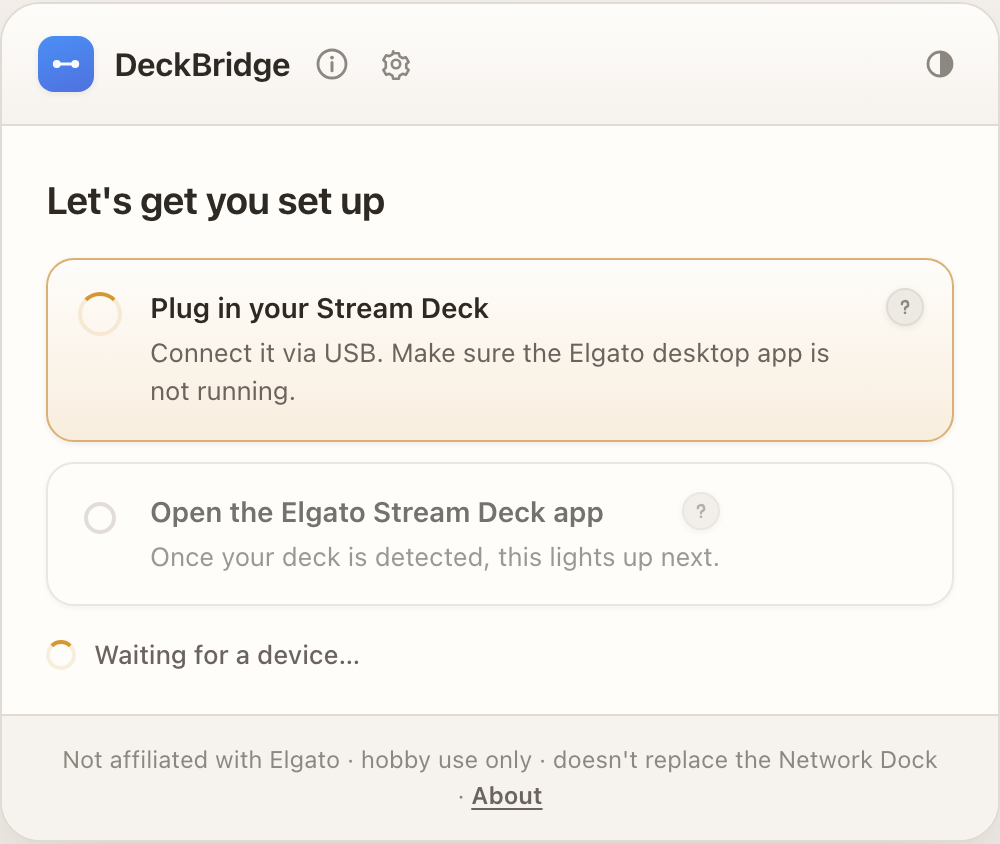
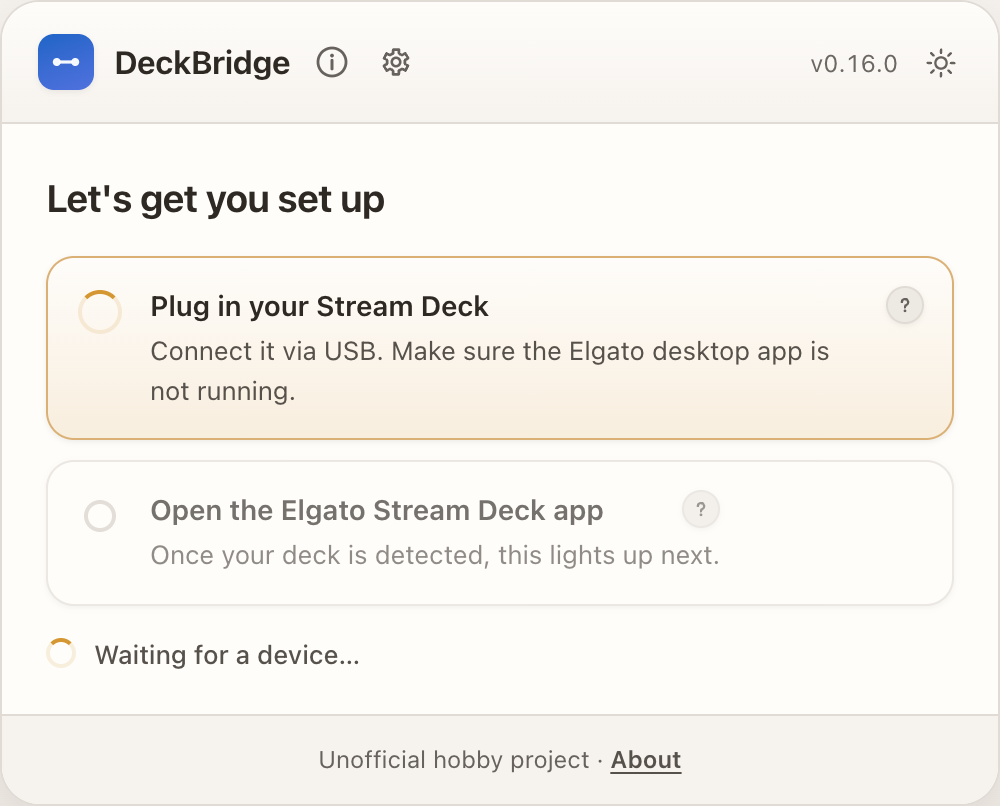
feat(devices): native Stream Deck+ emulation for AKP05 (#143)
* feat(devices): native Stream Deck+ emulation for AKP05, add mock-akp05 task

Retail AKP05 now advertises as stream-deck-plus by default (image/keyMap/cora
from AKP05E). Adds mise mock-akp05 task + script, regen device docs/images.

* style(web-client): custom dropdown arrow for select.input

* style: oxfmt

---------

diff --git a/ts/src/web/client/ui-simple.css b/ts/src/web/client/ui-simple.css
@@ -25,7 +25,7 @@
   gap: 10px;
 }
 .app-version {
-  opacity: 0.5;
+  opacity: 0.7;
   font-size: 12px;
   font-variant-numeric: tabular-nums;
   white-space: nowrap;
@@ -96,7 +96,7 @@
 .xkey-config-btn {
   color: var(--fg-muted);
   background: var(--surface);
-  border: 1px solid var(--border);
+  border: 1px solid var(--control-border);
 }
 .ghostbtn {
   font-family: var(--font);
@@ -110,7 +110,7 @@
 }
 .ghostbtn:hover {
   color: var(--fg);
-  border-color: var(--border-strong);
+  border-color: var(--accent);
 }
 .ghostbtn:active,
 .ctabtn:active,
@@ -359,9 +359,11 @@
     width: 280px;
   }
   &.dimmed {
+    width: 60%;
+  }
+  &.dimmed :is(.key-grid, .touch-strip-preview) {
     filter: saturate(0.4) brightness(0.92);
     opacity: 0.55;
-    width: 60%;
   }
   &.dimmed .live-dot {
     color: var(--fg-dim);
@@ -523,7 +525,7 @@ input[type='range'].range {
     linear-gradient(var(--accent), var(--accent)) 0 / var(--fill, 80%) 100% no-repeat,
     var(--inset);
   box-shadow: var(--inset-shadow);
-  border: 1px solid var(--border);
+  border: 1px solid var(--control-border);
 
   /* NB: keep -webkit-/-moz- thumb rules separate — a shared selector list
      is dropped whole by the engine that doesn't know the other's pseudo */
@@ -534,7 +536,7 @@ input[type='range'].range {
     height: 20px;
     border-radius: 50%;
     background: var(--surface);
-    border: 1px solid var(--border-strong);
+    border: 1px solid var(--control-border);
     box-shadow: var(--shadow-2);
     transition: transform 0.08s;
   }
@@ -546,7 +548,7 @@ input[type='range'].range {
     height: 20px;
     border-radius: 50%;
     background: var(--surface);
-    border: 1px solid var(--border-strong);
+    border: 1px solid var(--control-border);
     box-shadow: var(--shadow-2);
   }
 }
@@ -593,7 +595,7 @@ input[type='range'].range:disabled {
   margin-top: 0;
 }
 .xkeys-compact .input.xkey-select {
-  padding: 3px 7px;
+  padding: 3px 30px 3px 7px;
   min-height: 26px;
   font-size: 12px;
 }
@@ -1346,7 +1348,7 @@ input[type='range'].range:disabled {
   padding: 9px 11px;
   border-radius: 8px;
   background: var(--surface);
-  border: 1px solid var(--border-strong);
+  border: 1px solid var(--control-border);
   box-shadow: var(--shadow-1);
   color: var(--fg);
   font-size: 13px;
@@ -1389,7 +1391,7 @@ input[type='range'].range:disabled {
   padding: 4px 9px;
   border-radius: 6px;
   background: transparent;
-  border: 1px solid var(--border);
+  border: 1px solid var(--control-border);
   color: var(--fg-dim);
   font-size: 12px;
 }
@@ -1974,7 +1976,7 @@ input[type='range'].range:disabled {
   font-size: 12px;
   color: var(--fg);
   background: var(--bg);
-  border: 1px solid var(--border);
+  border: 1px solid var(--control-border);
   border-radius: var(--r-sm);
   padding: 4px 8px;
 }
@@ -1984,6 +1986,20 @@ input[type='range'].range:disabled {
 }
 select.input {
   cursor: pointer;
+}
+.b-mode-select,
+select.input,
+select.input.xkey-select {
+  appearance: none;
+  padding-right: 30px;
+  background-image:
+    linear-gradient(45deg, transparent 43%, currentColor 43% 57%, transparent 57%),
+    linear-gradient(135deg, transparent 43%, currentColor 43% 57%, transparent 57%);
+  background-size: 7px 7px;
+  background-position:
+    calc(100% - 21px) center,
+    calc(100% - 14px) center;
+  background-repeat: no-repeat;
 }
 
 /* collapsible sections (Collapsible component) */

diff --git a/ts/test/device-models.test.ts b/ts/test/device-models.test.ts
@@ -17,7 +17,7 @@ import {
   AJAZZ_AKP153E_REV2_MODEL,
   AJAZZ_AKP153R_REV2_MODEL,
 } from '../src/devices/ajazz/akp153-rev2.js';
-import { AJAZZ_AKP05E_MODEL } from '../src/devices/ajazz/akp05e.js';
+import { AJAZZ_AKP05E_MODEL, STREAM_DECK_PLUS_EMULATION } from '../src/devices/ajazz/akp05e.js';
 import { AJAZZ_AKP05_MODEL } from '../src/devices/ajazz/akp05.js';
 import { FIFINE_D6_MODEL, FIFINE_D6_REV2_MODEL } from '../src/devices/fifine/fifine-d6.js';
 import { AKP153_V1_CLONE_MODELS } from '../src/devices/rebadge/akp153-v1-clones.js';
@@ -132,9 +132,19 @@ test('AKP05E has its proven 2x5 output mapping', () => {
 
 test('AKP05 inherits AKP05E output protocol', () => {
   assert.equal(AJAZZ_AKP05_MODEL.protocol, AJAZZ_AKP05E_MODEL.protocol);
-  assert.equal(AJAZZ_AKP05_MODEL.protocol, AJAZZ_AKP05E_MODEL.protocol);
-  assert.deepEqual(AJAZZ_AKP05_MODEL.image, AJAZZ_AKP05E_MODEL.image);
-  assert.deepEqual(AJAZZ_AKP05_MODEL.keyMap, AJAZZ_AKP05E_MODEL.keyMap);
+  assert.equal(AJAZZ_AKP05_MODEL.wire, AJAZZ_AKP05E_MODEL.wire);
+});
+
+test('AKP05 pairs as Stream Deck + by default', () => {
+  assert.equal(AJAZZ_AKP05_MODEL.cora.advertiseAs, 'stream-deck-plus');
+  assert.equal(AJAZZ_AKP05_MODEL.cora.productId, ELGATO_PLUS_PID);
+  assert.deepEqual(
+    advertisedGeometry(AJAZZ_AKP05_MODEL),
+    modelToChildGeometry(STREAM_DECK_PLUS_MODEL),
+  );
+  assert.deepEqual(AJAZZ_AKP05_MODEL.image, STREAM_DECK_PLUS_EMULATION.image);
+  assert.deepEqual(AJAZZ_AKP05_MODEL.keyMap, STREAM_DECK_PLUS_EMULATION.keyMap);
+  assert.equal(AJAZZ_AKP05E_MODEL.cora.advertiseAs, undefined);
 });
 
 // Stream Deck + emulation profile

diff --git a/ts/src/web/client/ui-base.css b/ts/src/web/client/ui-base.css
@@ -12,14 +12,15 @@
   --inset: light-dark(oklch(0.935 0.009 72), oklch(0.175 0.008 64));
   --border: light-dark(oklch(0.895 0.01 72), oklch(0.33 0.01 64));
   --border-strong: light-dark(oklch(0.855 0.012 70), oklch(0.4 0.012 64));
+  --control-border: light-dark(oklch(0.6 0.01 72), oklch(0.58 0.01 64));
   --fg: light-dark(oklch(0.285 0.012 62), oklch(0.935 0.006 78));
-  --fg-muted: light-dark(oklch(0.505 0.012 64), oklch(0.73 0.01 72));
-  --fg-dim: light-dark(oklch(0.625 0.01 66), oklch(0.595 0.01 70));
-  --accent: light-dark(oklch(0.655 0.168 258), oklch(0.715 0.15 256));
+  --fg-muted: light-dark(oklch(0.44 0.012 64), oklch(0.73 0.01 72));
+  --fg-dim: light-dark(oklch(0.5 0.01 66), oklch(0.66 0.01 70));
+  --accent: light-dark(oklch(0.52 0.168 258), oklch(0.715 0.15 256));
   --accent-ink: light-dark(oklch(0.99 0.01 258), oklch(0.16 0.02 258));
-  --ok: light-dark(oklch(0.66 0.142 152), oklch(0.74 0.145 153));
+  --ok: light-dark(oklch(0.48 0.142 152), oklch(0.74 0.145 153));
   --wait: light-dark(oklch(0.72 0.135 75), oklch(0.78 0.13 78));
-  --warn: light-dark(oklch(0.6 0.18 32), oklch(0.7 0.165 35));
+  --warn: light-dark(oklch(0.52 0.18 32), oklch(0.7 0.165 35));
   --accent-soft: color-mix(in oklab, var(--accent), transparent 85%);
   --ok-soft: color-mix(in oklab, var(--ok), transparent 85%);
   --wait-soft: color-mix(in oklab, var(--wait), transparent 85%);

diff --git a/ts/src/devices/ajazz/akp05e.ts b/ts/src/devices/ajazz/akp05e.ts
@@ -40,7 +40,7 @@ const TOUCH_STRIP_IMAGE: DeviceImageSpec = { ...TOUCH_SLOT_IMAGE, width: 800 };
 // 5/10) becomes DeckBridge-owned extra keys (widget + press command, extra-keys.ts).
 // usePhysicalIdentity stays false — the AKP05E's own firmware (V3.AKP05E.02.007)
 // must not reach the desktop.
-const STREAM_DECK_PLUS_EMULATION: DeviceEmulation = {
+export const STREAM_DECK_PLUS_EMULATION = {
   image: { ...KEY_IMAGE, rotate: 180 },
   keyMap: {
     coraToWireImage: [11, 12, 13, 14, 6, 7, 8, 9],
@@ -48,7 +48,7 @@ const STREAM_DECK_PLUS_EMULATION: DeviceEmulation = {
     extraKeys: [15, 10],
     extraKeyInputs: [5, 10],
   },
-};
+} satisfies DeviceEmulation;
 
 /** AJAZZ AKP05E. Only PID 0x3004 has output-protocol evidence. */
 export const AJAZZ_AKP05E_MODEL: DeviceModel = {

diff --git a/ts/src/devices/ajazz/akp05.ts b/ts/src/devices/ajazz/akp05.ts
@@ -1,4 +1,5 @@
-import { AJAZZ_AKP05E_MODEL } from './akp05e.js';
+import { ELGATO_PLUS_PID } from '../../shared/types.js';
+import { AJAZZ_AKP05E_MODEL, STREAM_DECK_PLUS_EMULATION } from './akp05e.js';
 import type { DeviceModel } from '../driver.js';
 
 /** Retail AJAZZ AKP05. VID/PID and protocol-3 image format come from opendeck-akp05. */
@@ -7,4 +8,11 @@ export const AJAZZ_AKP05_MODEL: DeviceModel = {
   id: 'ajazz-akp05',
   name: 'AJAZZ AKP05',
   usbProductIds: [0x3006],
+  image: STREAM_DECK_PLUS_EMULATION.image,
+  keyMap: STREAM_DECK_PLUS_EMULATION.keyMap,
+  cora: {
+    ...AJAZZ_AKP05E_MODEL.cora,
+    productId: ELGATO_PLUS_PID,
+    advertiseAs: 'stream-deck-plus',
+  },
 };

diff --git a/docs-site/src/css/custom.css b/docs-site/src/css/custom.css
@@ -326,6 +326,22 @@ html[data-theme='dark'] img[alt$='light theme'] {
   display: none;
 }
 
+.db-dock-compare {
+  margin: 0.25rem 0 0.75rem;
+  padding: 0;
+  border: 0;
+  background: transparent;
+  box-shadow: none;
+}
+
+.db-dock-compare > summary {
+  width: fit-content;
+  color: var(--ifm-link-color);
+  cursor: pointer;
+  font-size: 0.875rem;
+  text-decoration: underline;
+}
+
 /* ---- Interactive pairing stepper (docs/features.md) ----
    Pure-CSS, no JS: 4 hidden radios drive the SVG layers + controls through
    `#db-sN:checked ~` sibling selectors. Prev/Next are <label>s pointing at the

diff --git a/ts/src/web/client/simple/device-tuning.tsx b/ts/src/web/client/simple/device-tuning.tsx
@@ -393,7 +393,11 @@ export function DeviceTuningPanel(): preact.JSX.Element {
             value={coraProfile}
             onChange={(e) => setCoraProfile((e.target as HTMLSelectElement).value)}
           >
-            <option value="">Native (default)</option>
+            <option value="">
+              {activeView.defaults.cora?.advertiseAs
+                ? 'Default (Stream Deck +)'
+                : 'Native (default)'}
+            </option>
             {activeView.profiles.map((p) => (
               <option key={p.id} value={p.id}>
                 {p.name}

diff --git a/docs/features.md b/docs/features.md
@@ -121,6 +121,13 @@ Web UI always shows current setup state. No guessing required.
 | **Ready to pair** | **Connected and working** |
 | ![DeckBridge showing the address needed to pair a connected Stream Deck, light theme](./img/webui-state-pairing.png) ![DeckBridge showing the address needed to pair a connected Stream Deck, dark theme](./img/webui-state-pairing-dark.png) | ![DeckBridge showing a connected and working Stream Deck with its live preview, light theme](./img/webui-state-ready.png) ![DeckBridge showing a connected and working Stream Deck with its live preview, dark theme](./img/webui-state-ready-dark.png) |
 
+### AKP05 as Elgato Stream Deck +
+
+This mock pairing shows the AKP05's eight app keys, touch strip, side keys, and knob
+controls with **Stream Deck +** emulation.
+
+![Paired AJAZZ AKP05 in Stream Deck Plus emulation showing touch strip and knobs, light theme](./img/webui-akp05-plus.png) ![Paired AJAZZ AKP05 in Stream Deck Plus emulation showing touch strip and knobs, dark theme](./img/webui-akp05-plus-dark.png)
+
 ## Use cases
 
 ```mermaid
@@ -136,8 +143,21 @@ flowchart LR
 
 - **Put the deck on another computer** — plug the deck into a laptop or mini-PC, run
   DeckBridge there, and control the Elgato app on your streaming PC across the LAN.
-- **Skip the Network Dock** — network-dock behaviour for hobby setups without buying
-  the hardware.
+- **Skip the Network Dock** — use a computer you already own and avoid buying the
+  [Elgato Network Dock](https://www.elgato.com/us/en/p/network-dock-stream-deck), listed at
+  **$79.99 USD** in September 2026.
+
+  <details class="db-dock-compare">
+  <summary>Compare DeckBridge with Network Dock</summary>
+
+  | | DeckBridge | Elgato Network Dock |
+  |---|---|---|
+  | **Cost** | Free software; needs a running computer. | $79.99 USD hardware (September 2026). |
+  | **Connection** | USB deck plugged into that computer; the computer can use WiFi or wired LAN. | [Ethernet and PoE](https://www.elgato.com/us/en/p/network-dock-stream-deck), or Ethernet with separate USB-C power. No computer needed beside the deck. |
+  | **Decks** | [Supported Elgato and non-Elgato models](./introduction.mdx#supported-devices); limited device selection. | [Supported Stream Deck models](https://www.elgato.com/uk/en/explorer/products/stream-deck/stream-deck-network-dock-overview/), including XL and +; some older models are excluded. |
+  | **Use** | Hobby project with setup flexibility; host computer must stay on. | Dedicated, officially supported hardware for fixed installations; requires purchase and wired network. |
+
+  </details>
 - **Use a real Stream Deck wirelessly** — a Stream Deck Mini or MK.2 works the same way,
   over WiFi instead of a cable.
 - **Bitfocus Companion** — Companion also speaks the dock protocol and discovers
